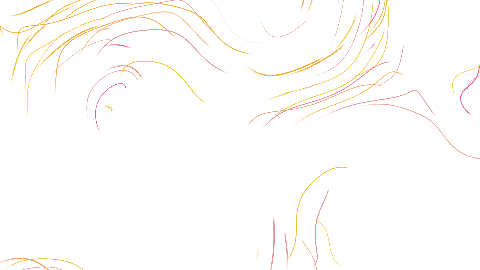
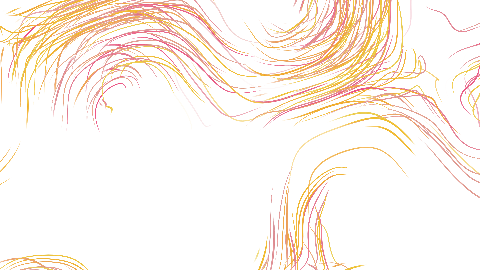
Fill the frame with Fractals, flatten Living Ink and densify Currents
Fractals: Zoom flight flies continuously into Kaleidoscope and Julia
patterns (two copies one zoom step apart, so the loop closes exactly);
Fly in takes the Mandelbox camera inside the box and turns it once per
loop. All fractal presets now fill the frame. Julia presets use
analogous palettes so fine filigree no longer averages to grey.

Living Ink: loop ink travels one pattern period per loop in staggered
pulses. Evolving ink gains Colour by age; Ink Estuary is flat colour
with outlines and stays within about 30-65% coverage instead of
flooding the frame. All ink looks start in flat colour.

Velvet Currents: transported strands go up to 480 fibre density (16k
strands) and taper toward both ends. Silk River and Copper Confluence
are dense; Copper Confluence leaves trails behind its strands. The comb
Vortex Filaments and the sparse Gathering Light are removed (81 presets).

The full instrument check now passes: evolving-only and dependent
controls are tested in the state where they act, and only visible
controls are stressed.

diff --git a/src/core/project.ts b/src/core/project.ts
@@ -108,6 +108,8 @@ const DEFINITIONS: Record<LayerKind, ParameterDefinition[]> = {
     parameter('cameraYaw', 'Orbit', -Math.PI, Math.PI, 0.01, 0, 'Camera'),
     parameter('cameraPitch', 'Elevation', -1.1, 1.1, 0.01, 0.15, 'Camera'),
     parameter('zoom', 'Framing', 0.5, 2, 0.01, 1, 'Camera'),
+    { ...parameter('zoomFlight', 'Zoom flight', 0, 1, 0.01, 0, 'Motion'), description: 'Flies continuously into the pattern; each loop zooms one step deeper and fades into the next. 0 is off.' },
+    { ...parameter('approach', 'Fly in', 0, 1, 0.01, 0, 'Camera'), description: 'Moves the camera inside the Mandelbox toward its folded core. 0 frames the whole box from outside.' },
     parameter('quality', 'Render quality', 0, 2, 1, 2, 'Material'),
     parameter('density', 'Color density', 0.25, 3, 0.01, 1, 'Material'),
     parameter('juliaReal', 'Julia real', -1.2, 0.4, 0.00001, -0.74543, 'Shape'),
@@ -224,7 +226,7 @@ export function parameterDefinitions(kind: LayerKind): ParameterDefinition[] {
   return DEFINITIONS[kind].map((definition) => ({ ...definition }));
 }
 
-const FRACTAL_ADDED_FIELDS = ['variant', 'quality', 'density', 'juliaReal', 'juliaImag', 'trap', 'boxScale', 'boxRadius', 'radial', 'roughness', 'lightAngle', 'exposure', 'lineWidth'];
+const FRACTAL_ADDED_FIELDS = ['zoomFlight', 'approach', 'variant', 'quality', 'density', 'juliaReal', 'juliaImag', 'trap', 'boxScale', 'boxRadius', 'radial', 'roughness', 'lightAngle', 'exposure', 'lineWidth'];
 const GRADING_FIELDS = ['saturation', 'hue', 'exposure'];
 const ADDED_FIELDS: Partial<Record<LayerKind, string[]>> = {
   surface: [...TIMING_KEYS,'anisotropy','sheenAngle','iridescence', 'roundness', 'relief', 'variant', 'density', 'stretch', 'turbulence', 'centerX', 'centerY', 'lightAngle', 'roughness', ...GRADING_FIELDS],
@@ -246,11 +248,11 @@ export function visibleParameterDefinitions(layer: Layer): ParameterDefinition[]
     return definitions.filter(d => keys.has(d.key)||FINISH_KEYS.includes(d.key));
   }
   if(layer.kind==='currents'&&layer.params.flowMode===1){
-    const keys=new Set(['flowMode','scale','motion','cycles','backgroundOpacity','flowDirection','travel','eddyScale','phrase','surfaceHole','fibres','curl','trailLength','width','depth','flowDetail','phaseOffset','anisotropy','saturation','hue','exposure',...FINISH_KEYS]);
+    const keys=new Set(['flowMode','scale','motion','cycles','backgroundOpacity','flowDirection','travel','eddyScale','phrase','surfaceHole','fibres','taper','curl','trailLength','width','depth','flowDetail','phaseOffset','anisotropy','saturation','hue','exposure',...FINISH_KEYS]);
     return definitions.filter(d=>keys.has(d.key));
   }
   if(layer.kind==='livingink'&&layer.params.inkMode===2){
-    const keys=new Set(['inkMode','simulationQuality','loopReturn','pigmentCarry','scale','motion','backgroundOpacity','flowDirection','travel','eddyScale','surfaceHole','pattern','branching','seedCoverage','development','relief','pigment','edgeInk','edgeSoftness','lightAngle','lightHeight','fillLight','roughness','anisotropy','sheenAngle','clearcoat','saturation','hue','exposure',...FINISH_KEYS]);
+    const keys=new Set(['ageColour','inkMode','simulationQuality','loopReturn','pigmentCarry','scale','motion','backgroundOpacity','flowDirection','travel','eddyScale','surfaceHole','pattern','branching','seedCoverage','development','relief','pigment','edgeInk','edgeSoftness','lightAngle','lightHeight','fillLight','roughness','anisotropy','sheenAngle','clearcoat','saturation','hue','exposure',...FINISH_KEYS]);
     return definitions.filter(d=>keys.has(d.key)).map(d=>d.key==='scale'?{...d,preparation:true}:d);
   }
   if(layer.kind==='relief'&&layer.params.reliefMode===1){
@@ -262,7 +264,7 @@ export function visibleParameterDefinitions(layer: Layer): ParameterDefinition[]
   const familySpecific: Record<string, number[]> = {
     juliaReal: [1], juliaImag: [1], trap: [1],
     boxScale: [2], boxRadius: [2], radial: [2], roughness: [2], lightAngle: [2],
-    lineWidth: [0, 1],
+    lineWidth: [0, 1], zoomFlight: [0, 1], approach: [2],
   };
   return definitions.filter((definition) => {
     if (definition.key === 'colorSteps') return layer.params.colorMode === 2;
@@ -309,17 +311,17 @@ export const PRESETS: Preset[] = [
   preset('chrome-dahlia', 'Chrome Dahlia', 'A tightly gathered dahlia with electric highlights and fine folds.', 'sculpture', ELECTRIC, { form: 1, fold: 0.7, ridges: 0.7, opening: 0.3, lobes: 11, thickness: 0.3, curl: 0.8, twist: -0.6, stretch: 0.95, cameraPitch: 0.2, roughness: 0.22, iridescence: 0.5, metallic: 0.65, clearcoat: 0.9, lightAngle: -0.45, shadowStrength: 0.45, shadowSoftness: 0.6 }),
   preset('aurora-ribbon', 'Aurora Ribbon', 'A broad asymmetric ribbon in lime and violet light.', 'sculpture', LIME_VIOLET, { form: 2, fold: 0.9, ridges: 0.8, opening: 0.1, twist: -1, lobes: 5, thickness: 0.7, curl: 0.9, asymmetry: 0.35, stretch: 0.75, foldFrequency: 1.4, cameraPitch: 0.6, cameraYaw: 0.4, roughness: 0.24, iridescence: 1, filmScale: 1.45, metallic: 0.45, clearcoat: 0.9, lightAngle: -0.8, saturation: 1.25, shadowStrength: 0.45, shadowSoftness: 0.6 }),
   preset('liquid-trefoil', 'Liquid Trefoil', 'A smooth looping knot in cyan, magenta and yellow.', 'sculpture', POP_PORTAL, { form: 3, fold: 0.2, ridges: 0.3, opening: 0.55, twist: 0.4, thickness: 0.65, cameraPitch: 0.3, roughness: 0.23, iridescence: 0.62, metallic: 0.45, clearcoat: 0.9, lightAngle: 0.35, shadowStrength: 0.45, shadowSoftness: 0.6 }),
-  preset('prismatic-fold', 'Prismatic Fold', 'Luminous folded geometry arranged into a shifting neon kaleidoscope.', 'fractal', FRACTAL_PALETTE, { style: 0 }),
-  preset('velvet-petals', 'Hot Petals', 'Overlapping petals in hot pink, orange and yellow.', 'fractal', HOT_SIGNAL, { style: 0, variant: 1, scale: 1.8, detail: 0.48, fold: 0.64, symmetry: 8, twist: -0.12, morph: 0.1, travel: 0.18, relief: 0.52, glow: 0.25, density: 0.8, lineWidth: 1.15 }),
-  preset('luminous-weave', 'Luminous Weave', 'Fine interlocking ribbons in electric cyan, blue and violet.', 'fractal', ELECTRIC, { style: 0, variant: 2, scale: 2.2, detail: 0.7, fold: 0.4, symmetry: 6, twist: 0.34, morph: 0.1, travel: 0.3, density: 1.2, lineWidth: 0.8, relief: 0.58, glow: 0.18 }),
-  preset('velvet-julia', 'Lime Julia', 'Intricate Julia filigree in lime and violet.', 'fractal', LIME_VIOLET, { style: 1, variant: 0, scale: 1.55, detail: 0.7, fold: 0.42, twist: -0.16, morph: 0.07, travel: 0.08, offset: 0.32, relief: 0.52, glow: 0.16, contrast: 0.5, cameraPitch: 0.12, juliaReal: -0.74543, juliaImag: 0.11301, density: 0.9, trap: 0.55 }),
-  preset('coral-mandala', 'Coral Mandala', 'Radial Julia branches gathered into an amber, scarlet and magenta mandala.', 'fractal', SOLAR, { style: 1, variant: 1, scale: 1.65, detail: 0.75, fold: 0.45, symmetry: 8, twist: 0.08, morph: 0.08, travel: 0.1, offset: 0.12, relief: 0.42, glow: 0.14, contrast: 0.52, juliaReal: -0.4, juliaImag: 0.6, density: 0.75, trap: 0.62, lineWidth: 1.1, exposure: 1.25 }),
-  preset('spiral-garden', 'Spiral Garden', 'Curling Julia tendrils in cyan, magenta and yellow.', 'fractal', POP_PORTAL, { style: 1, variant: 2, scale: 1.75, detail: 0.8, fold: 0.55, twist: 0.16, morph: 0.06, travel: 0.08, offset: 0.2, relief: 0.5, glow: 0.12, contrast: 0.55, juliaReal: -0.70176, juliaImag: -0.3842, density: 1.15, trap: 0.48, lineWidth: 0.9, exposure: 1.3 }),
-  preset('abyssal-cathedral', 'Abyssal Cathedral', 'Folded architecture in cyan light with yellow edges.', 'fractal', CYAN_YELLOW, { style: 2, variant: 0, scale: 1.9, detail: 0.42, fold: 0, twist: 0.08, morph: 0.08, travel: 0.18, offset: 0.02, relief: 0.98, glow: 0.06, contrast: 0.5, cameraYaw: 0.65, cameraPitch: 0.35, zoom: 0.72, boxScale: 2.2, boxRadius: 0.35, roughness: 0.42, density: 0.55, exposure: 1.15, lightAngle: -0.7 }),
-  preset('ivory-vault', 'Candy Vault', 'Smooth sphere folds in candy pink, cyan and yellow.', 'fractal', CANDY, { style: 2, variant: 1, scale: 1.85, detail: 0.32, fold: 0.12, twist: -0.08, morph: 0.06, travel: 0.08, relief: 0.96, glow: 0.04, contrast: 0.5, cameraYaw: 0.55, cameraPitch: 0.32, zoom: 0.85, boxScale: 1.85, boxRadius: 0.4, roughness: 0.55, density: 0.8, lightAngle: -0.45, exposure: 1.15 }),
-  preset('chromatic-lattice', 'Chromatic Lattice', 'Open recursive lattice with crisp neon edges.', 'fractal', NEON_STRATA, { style: 2, variant: 2, scale: 2, detail: 0.42, fold: 0, twist: 0.08, morph: 0.08, travel: 0.08, relief: 0.98, glow: 0.05, contrast: 0.5, cameraYaw: -0.35, cameraPitch: 0.3, zoom: 0.9, boxScale: 2.2, boxRadius: 0.35, roughness: 0.32, density: 0.8, lightAngle: -0.8, exposure: 1.15 }),
-  preset('ink-lace', 'Ink Lace', 'Fine recursive lace in cyan and yellow on black.', 'fractal', CYAN_YELLOW, { style: 0, variant: 0, colorMode: 1, colorMix: 0.8, scale: 1.9, detail: 0.65, symmetry: 8, fold: 0.5, lineWidth: 0.85, relief: 0.5, glow: 0.12, contrast: 0.48, density: 0.8 }),
-  preset('ember-julia', 'Ember Julia', 'Julia filigree mapped into crisp amber, scarlet and magenta contour bands.', 'fractal', SOLAR, { style: 1, variant: 0, colorMode: 2, colorSteps: 8, colorMix: 0.8, scale: 1.55, detail: 0.7, fold: 0.42, twist: -0.16, morph: 0.07, travel: 0.08, offset: 0.12, relief: 0.52, glow: 0.16, contrast: 0.5, cameraPitch: 0.12, juliaReal: -0.74543, juliaImag: 0.11301, density: 0.9, trap: 0.55 }),
+  preset('prismatic-fold', 'Prismatic Fold', 'Luminous folded geometry arranged into a shifting neon kaleidoscope.', 'fractal', FRACTAL_PALETTE, { style: 0, zoom: 1.8, zoomFlight: 0.5 }),
+  preset('velvet-petals', 'Hot Petals', 'Overlapping petals in hot pink, orange and yellow.', 'fractal', HOT_SIGNAL, { style: 0, variant: 1, scale: 1.8, detail: 0.48, fold: 0.64, symmetry: 8, twist: -0.12, morph: 0.1, travel: 0.18, relief: 0.52, glow: 0.25, density: 0.8, lineWidth: 1.15, zoom: 1.8, zoomFlight: 0.5 }),
+  preset('luminous-weave', 'Luminous Weave', 'Fine interlocking ribbons in electric cyan, blue and violet.', 'fractal', ELECTRIC, { style: 0, variant: 2, scale: 2.2, detail: 0.7, fold: 0.4, symmetry: 6, twist: 0.34, morph: 0.1, travel: 0.3, density: 1.2, lineWidth: 0.8, relief: 0.58, glow: 0.18, zoom: 1.6, zoomFlight: 0.4 }),
+  preset('velvet-julia', 'Lime Julia', 'Intricate Julia filigree in lime, green and cyan.', 'fractal', ['#c6ff00', '#5cff5c', '#00ff9c', '#00e5ff', '#9cff2e', '#04120a'], { style: 1, variant: 0, scale: 1.55, detail: 0.7, fold: 0.42, twist: -0.16, morph: 0.07, travel: 0.08, offset: 0.32, relief: 0.52, glow: 0.16, contrast: 0.5, cameraPitch: 0.12, juliaReal: -0.74543, juliaImag: 0.11301, density: 0.9, trap: 0.55, zoom: 1.6, zoomFlight: 0.4 }),
+  preset('coral-mandala', 'Coral Mandala', 'Radial Julia branches gathered into an amber, scarlet and magenta mandala.', 'fractal', SOLAR, { style: 1, variant: 1, scale: 1.65, detail: 0.75, fold: 0.45, symmetry: 8, twist: 0.08, morph: 0.08, travel: 0.1, offset: 0.12, relief: 0.42, glow: 0.14, contrast: 0.52, juliaReal: -0.4, juliaImag: 0.6, density: 0.75, trap: 0.62, lineWidth: 1.1, exposure: 1.25, zoom: 1.8, zoomFlight: 0.5 }),
+  preset('spiral-garden', 'Spiral Garden', 'Curling Julia tendrils in hot pink, orange and yellow.', 'fractal', ['#ff2e93', '#ff5a1f', '#ffcc00', '#ff4fd8', '#ff8a00', '#14020c'], { style: 1, variant: 2, scale: 1.75, detail: 0.8, fold: 0.55, twist: 0.16, morph: 0.06, travel: 0.08, offset: 0.2, relief: 0.5, glow: 0.12, contrast: 0.55, juliaReal: -0.70176, juliaImag: -0.3842, density: 1.15, trap: 0.48, lineWidth: 0.9, exposure: 1.3, zoom: 1.6, zoomFlight: 0.4 }),
+  preset('abyssal-cathedral', 'Abyssal Cathedral', 'Folded architecture in cyan light with yellow edges.', 'fractal', CYAN_YELLOW, { style: 2, variant: 0, scale: 1.9, detail: 0.42, fold: 0, twist: 0.08, morph: 0.08, travel: 0.18, offset: 0.02, relief: 0.98, glow: 0.06, contrast: 0.5, cameraYaw: 0.65, cameraPitch: 0.35, boxScale: 2.2, boxRadius: 0.35, roughness: 0.42, density: 0.55, exposure: 1.15, lightAngle: -0.7, approach: 0.7 }),
+  preset('ivory-vault', 'Candy Vault', 'Smooth sphere folds in candy pink, cyan and yellow.', 'fractal', CANDY, { style: 2, variant: 1, scale: 1.85, detail: 0.32, fold: 0.12, twist: -0.08, morph: 0.06, travel: 0.08, relief: 0.96, glow: 0.04, contrast: 0.5, cameraYaw: 0.55, cameraPitch: 0.32, boxScale: 1.85, boxRadius: 0.4, roughness: 0.55, density: 0.8, lightAngle: -0.45, exposure: 1.15, approach: 0.7 }),
+  preset('chromatic-lattice', 'Chromatic Lattice', 'Open recursive lattice with crisp neon edges.', 'fractal', NEON_STRATA, { style: 2, variant: 2, scale: 2, detail: 0.42, fold: 0, twist: 0.08, morph: 0.08, travel: 0.08, relief: 0.98, glow: 0.05, contrast: 0.5, cameraYaw: -0.35, cameraPitch: 0.3, boxScale: 2.2, boxRadius: 0.35, roughness: 0.32, density: 0.8, lightAngle: -0.8, exposure: 1.15, approach: 0.6 }),
+  preset('ink-lace', 'Ink Lace', 'Fine recursive lace in cyan and yellow on black.', 'fractal', CYAN_YELLOW, { style: 0, variant: 0, colorMode: 1, colorMix: 0.8, scale: 1.9, detail: 0.65, symmetry: 8, fold: 0.5, lineWidth: 0.85, relief: 0.5, glow: 0.12, contrast: 0.48, density: 0.8, zoom: 1.8, zoomFlight: 0.5 }),
+  preset('ember-julia', 'Ember Julia', 'Julia filigree mapped into crisp amber, scarlet and magenta contour bands.', 'fractal', SOLAR, { style: 1, variant: 0, colorMode: 2, colorSteps: 8, colorMix: 0.8, scale: 1.55, detail: 0.7, fold: 0.42, twist: -0.16, morph: 0.07, travel: 0.08, offset: 0.12, relief: 0.52, glow: 0.16, contrast: 0.5, cameraPitch: 0.12, juliaReal: -0.74543, juliaImag: 0.11301, density: 0.9, trap: 0.55, zoom: 1.6, zoomFlight: 0.4 }),
 ];
 
 

diff --git a/src/core/instruments.ts b/src/core/instruments.ts
@@ -9,7 +9,7 @@ const lighting=()=>[p('lightAngle','Light angle',-Math.PI,Math.PI,.01,-.7,'Mater
 const common=()=>[p('scale','Pattern scale',.3,8,.01,2.4),p('rotation','Direction',-Math.PI,Math.PI,.01,0),p('motion','Motion amount',0,1,.01,.35,'Motion'),p('cycles','Cycles per loop',1,8,1,1,'Motion'),p('backgroundOpacity','Field background',0,1,.01,1,'Material'),p('saturation','Saturation',0,2,.01,1,'Material'),p('hue','Hue shift',-Math.PI,Math.PI,.01,0,'Material'),p('exposure','Exposure',.25,2,.01,1,'Material')];
 export const INSTRUMENT_PARAMETERS:Record<InstrumentKind,ParameterDefinition[]>={
  livingink:[...common(),p('pattern','Growth family',0,3,1,0),{...p('branching','Branching',0,1,.01,.5),preparation:true},p('relief','Pigment relief',0,1,.01,.7,'Material'),p('pigment','Pigment amount',.15,.85,.01,.48,'Material'),p('flow','Flow distortion',0,1,.01,.25),...lighting()],
- currents:[...common(),p('fibres','Fibre density',12,96,1,42),p('curl','Current curl',0,1,.01,.6),p('coherence','Flow coherence',0,1,.01,.75),p('trailLength','Trail length',.08,1,.01,.65,'Motion'),p('width','Fibre width',.08,.8,.01,.3,'Material'),p('depth','Depth spread',0,1,.01,.45),...lighting()],
+ currents:[...common(),p('fibres','Fibre density',12,480,1,42),p('curl','Current curl',0,1,.01,.6),p('coherence','Flow coherence',0,1,.01,.75),p('trailLength','Trail length',.08,1,.01,.65,'Motion'),p('width','Fibre width',.08,.8,.01,.3,'Material'),p('depth','Depth spread',0,1,.01,.45),...lighting()],
  relief:[...common(),p('columns','Piece density',3,20,1,8),p('opening','Hinge opening',0,1,.01,.65),p('depth','Relief depth',.05,1,.01,.5),p('bevel','Piece bevel',.02,.35,.01,.12),p('waveCount','Travelling bands',1,6,1,2,'Motion'),p('axis','Hinge axis',0,2,1,0),p('shadow','Shadow strength',0,1,.01,.6,'Material'),...lighting()],
  resonance:[...common(),p('modeA','Horizontal mode',1,12,1,3),p('modeB','Vertical mode',1,12,1,5),p('modalBlend','Modal blend',0,1,.01,.35),p('bandWidth','Nodal width',.015,.3,.005,.09,'Material'),p('grains','Sand texture',0,1,.01,.65,'Material'),p('relief','Membrane relief',0,1,.01,.25,'Material'),...lighting()],
 };
@@ -23,7 +23,7 @@ const directed=[
 ];
 const material=[a('lightHeight','Light elevation',.2,2,.01,1,'Material'),a('fillLight','Fill light',0,1,.01,.26,'Material'),a('anisotropy','Directional sheen',0,1,.01,0,'Material'),a('sheenAngle','Sheen direction',-Math.PI,Math.PI,.01,0,'Material','Direction of the stretched highlight when Directional sheen is above zero.'),a('clearcoat','Clear coat',0,1,.01,0,'Material')];
 const specific:Record<InstrumentKind,ParameterDefinition[]>={
- livingink:[p('pigmentCarry','Pigment carry',0,1,.01,.6,'Material'),a('edgeSoftness','Pigment softness',0,1,.01,0,'Material'),a('edgeInk','Edge pigment',0,1,.01,.24,'Material'),{...a('seedCoverage','Seed coverage',.3,.85,.01,.62,'Shape','Re-prepares the chemical texture; does not change during playback.'),preparation:true},{...a('development','Development',.65,1.4,.01,1,'Shape','Duration of deterministic chemical preparation, not playback speed.'),preparation:true}],
+ livingink:[...TIMING_PARAMETERS.map(d=>({...d})),{...p('ageColour','Colour by age',0,1,.01,0,'Material'),description:'Evolving only: colours ink by how long it has been there, so new growth stands out from old. 0 keeps one colour.'},p('pigmentCarry','Pigment carry',0,1,.01,.6,'Material'),a('edgeSoftness','Pigment softness',0,1,.01,0,'Material'),a('edgeInk','Edge pigment',0,1,.01,.24,'Material'),{...a('seedCoverage','Seed coverage',.3,.85,.01,.62,'Shape','Re-prepares the chemical texture; does not change during playback.'),preparation:true},{...a('development','Development',.65,1.4,.01,1,'Shape','Duration of deterministic chemical preparation, not playback speed.'),preparation:true}],
  currents:[a('vortex','Vortex curl',-1,1,.01,0),a('braid','Braided flow',0,1,.01,0),a('taper','Fibre taper',0,1,.01,0,'Material'),a('flowDetail','Fine eddies',0,1,.01,0)],
  relief:[...TIMING_PARAMETERS.map(d=>({...d})),{...p('panelMix','Panel sizes',0,1,.01,0),description:'Mixes large, medium and small panels instead of one uniform grid. Solid relief only.'},a('gap','Joint spacing',.01,.24,.005,.08),a('stagger','Row stagger',0,1,.01,0),a('hingeBias','Hinge position',-1,1,.01,0),a('roundness','Plate rounding',0,1,.01,0),a('phaseSpread','Opening variation',0,1,.01,0,'Motion')],
  resonance:[a('radialMix','Circular modes',0,1,.01,0),a('harmonic','Harmonic detail',0,1,.01,0),a('grainSize','Grain density',40,260,1,130,'Material'),a('nodalSoftness','Nodal softness',0,1,.01,0,'Material')],
@@ -46,22 +46,20 @@ export const INSTRUMENTS:InstrumentInfo[]=[
 export function isInstrument(kind:string):kind is InstrumentKind{return (INSTRUMENT_KINDS as readonly string[]).includes(kind);}
 
 const explorations:Partial<Record<InstrumentKind,InstrumentInfo['looks'][number]>>={
- currents:{id:'vortex-filaments',name:'Vortex Filaments',params:{vortex:.6,braid:.35,stretch:.8,coherence:.8,curl:.8,anisotropy:.8,flowDetail:.3,width:.55,scale:1.4,fibres:18,fillLight:.4}},
  resonance:{id:'orbital-cymatics',name:'Orbital Cymatics',palette:SOLAR,params:{radialMix:.8,harmonic:.3,grainSize:180,nodalSoftness:.12,warp:.05,scale:2,bandWidth:.13}},
 };
 for(const info of INSTRUMENTS){const look=explorations[info.kind];if(look)info.looks.push(look);}
 
 // Authored behaviour studies within the existing instruments. References and
 // original design decisions: docs/projection-media-direction-2026-11-10.md.
-export const PROJECTION_LOOK_IDS=['silk-river','copper-confluence','gathering-light','ink-estuary','tidal-pigment','breathing-facade','folding-copper','quiet-monument'];
+export const PROJECTION_LOOK_IDS=['silk-river','copper-confluence','ink-estuary','tidal-pigment','breathing-facade','folding-copper','quiet-monument'];
 const studies:Partial<Record<InstrumentKind,InstrumentInfo['looks']>>={
  currents:[
-  {id:'silk-river',name:'Silk River',params:{flowMode:1,organic:.7,scale:1.4,fibres:72,width:.5,trailLength:.85,curl:.95,travel:.4,eddyScale:2,flowDetail:.5,surfaceHole:.32,motion:1,anisotropy:.8,backgroundOpacity:0,depth:.65}},
-  {id:'copper-confluence',name:'Copper Confluence',palette:warm,params:{flowMode:1,organic:.8,scale:1.7,fibres:84,width:.5,trailLength:.95,curl:1,travel:.2,eddyScale:2.8,flowDirection:.35,motion:1,phrase:2,backgroundOpacity:0,depth:.8}},
-  {id:'gathering-light',name:'Gathering Light',palette:pearl,params:{flowMode:1,scale:1.6,fibres:60,width:.3,trailLength:.65,curl:.8,travel:.65,eddyScale:1.2,flowDirection:-.4,motion:1,phrase:1,backgroundOpacity:0}},
+  {id:'silk-river',name:'Silk River',params:{flowMode:1,organic:.7,scale:1.4,fibres:360,taper:.7,width:.5,trailLength:.85,curl:.95,travel:.4,eddyScale:2,flowDetail:.5,surfaceHole:.32,motion:1,anisotropy:.8,backgroundOpacity:0,depth:.65}},
+  {id:'copper-confluence',name:'Copper Confluence',palette:warm,params:{flowMode:1,organic:.8,scale:1.7,fibres:420,taper:.6,echo:.82,echoZoom:1,echoBlend:1,width:.5,trailLength:.95,curl:1,travel:.2,eddyScale:2.8,flowDirection:.35,motion:1,phrase:2,backgroundOpacity:0,depth:.8}},
  ],
  livingink:[
-  {id:'ink-estuary',name:'Ink Estuary · Evolving',palette:cool,params:{inkMode:2,scale:2.2,travel:.55,pattern:3,motion:1,relief:.18,seedCoverage:.5,development:1.2,pigment:.6,edgeInk:.6,backgroundOpacity:0}},
+  {id:'ink-estuary',name:'Ink Estuary · Evolving',palette:cool,params:{...FLAT_FINISH,toonBands:4,pigmentCarry:.1,ageColour:1,edgeSoftness:0,inkMode:2,scale:2.2,travel:.55,pattern:3,motion:1,relief:.18,seedCoverage:.5,development:1.2,pigment:.6,edgeInk:.6,backgroundOpacity:0}},
   {id:'tidal-pigment',name:'Tidal Pigment · Loop',palette:SOLAR,params:{inkMode:1,organic:.55,scale:1.8,pattern:1,motion:1,flow:.5,relief:.35,edgeInk:.5,flowDirection:.35,backgroundOpacity:0}},
  ],
  relief:[
@@ -82,5 +80,13 @@ const RELIEF_TIMING:Record<string,Record<string,number>>={
  'quiet-monument':{panelMix:.9,delayShape:2,delaySpread:.4,pause:.5},
 };
 for(const look of INSTRUMENTS.find(i=>i.kind==='relief')!.looks)Object.assign(look.params,RELIEF_TIMING[look.id]??{});
+// Loop ink travels one pattern period per loop in staggered pulses instead of breathing in place.
+const INK_TRAVEL:Record<string,Record<string,number>>={
+ 'ivory-coral':{inkMode:1,motion:1,flowDirection:.3,delayShape:0,delaySpread:.2,pause:.15},
+ 'cobalt-fingerprints':{inkMode:1,motion:1,flowDirection:-.5,delayShape:2,delaySpread:.2,pause:.15},
+ 'ember-cells':{inkMode:1,motion:1,flowDirection:1.2,delayShape:0,delaySpread:.25,pause:.2},
+ 'tidal-pigment':{delayShape:2,delaySpread:.2,pause:.15},
+};
+for(const look of INSTRUMENTS.find(i=>i.kind==='livingink')!.looks)look.params={...FLAT_FINISH,...look.params,...INK_TRAVEL[look.id]};
 const RELIEF_PALETTES:Record<string,string[]>={'porcelain-shutters':CANDY,'basalt-scales':CYAN_YELLOW};
 for(const look of INSTRUMENTS.find(i=>i.kind==='relief')!.looks)if(RELIEF_PALETTES[look.id])look.palette=RELIEF_PALETTES[look.id];

diff --git a/src/rendering/CurrentRenderer.ts b/src/rendering/CurrentRenderer.ts
@@ -5,10 +5,18 @@ import { flowHash, flowStep, FLOW_STEPS, phraseTime, smooth, TAU, wrapUnit, type
 import { sampleSurface } from '../core/surface-layout';
 import { surfaceFieldGLSL, type PreparedSurface } from './surface-fields';
 
-const MAX_STRANDS = 4096, MAX_VERTICES = MAX_STRANDS * FLOW_STEPS * 6;
+// Dense currents draw up to 16k strands; only the visible trail of each is
+// tessellated, so the vertex budget is set by trails rather than full paths.
+const MAX_STRANDS = 16384, MAX_VERTICES = 3_600_000;
 /** Finite-age trajectories reconstructed from their birth, not display history.
  * See the motion/lifecycle design and primary sources in docs/projection-media-direction-2026-11-10.md.
  */
+/** Width multiplier along a trail; amount 0 keeps a constant width. */
+function taper(at:number,begin:number,span:number,amount:number):number{
+  if(!(amount>0))return 1;
+  const u=Math.max(0,Math.min(1,(at-begin)/span));
+  return 1-amount+amount*1.35*Math.sin(Math.PI*u);
+}
 export class CurrentRenderer {
   private pathKey='';
   private paths=new Map<string,Float64Array>();
@@ -60,7 +68,7 @@ export class CurrentRenderer {
       if(surface&&surface.role!==1){const f=sampleSurface(surface.grid,x/(aspect*scale)+.5,y/scale+.5);if(surface.role===2?f.coverage<.5:Math.abs(f.distance)>.03)continue;}
       const key=`${ix}:${iy}:${j}`;
       let path=this.paths.get(key);
-      if(!path){path=new Float64Array((FLOW_STEPS+1)*2);path.set([x,y]);let X=x,Y=y;for(let i=1;i<=FLOW_STEPS;i++){[X,Y]=flowStep(X,Y,-identity+(i-1)/FLOW_STEPS,1/FLOW_STEPS,settings);path[i*2]=X;path[i*2+1]=Y;}this.paths.set(key,path);while(this.paths.size>8192)this.paths.delete(this.paths.keys().next().value!);}
+      if(!path){path=new Float64Array((FLOW_STEPS+1)*2);path.set([x,y]);let X=x,Y=y;for(let i=1;i<=FLOW_STEPS;i++){[X,Y]=flowStep(X,Y,-identity+(i-1)/FLOW_STEPS,1/FLOW_STEPS,settings);path[i*2]=X;path[i*2+1]=Y;}this.paths.set(key,path);while(this.paths.size>MAX_STRANDS*1.25)this.paths.delete(this.paths.keys().next().value!);}
       const tail=Math.max(.04,p.trailLength*.68),begin=Math.max(0,age-tail);
       const life=smooth(age/.08)*smooth((1-age)/.12);
       const tone=flowHash(ix+41,iy-31,seed),radius=(.0015+p.width*.005)*(1+p.depth*(identity-.5));
@@ -71,11 +79,14 @@ export class CurrentRenderer {
         const next=Math.min(at,age);
         if(at>age&&previous){const f=(age-previousAge)*FLOW_STEPS;x=previous[0]+(x-previous[0])*f;y=previous[1]+(y-previous[1])*f;}
         if(previous&&next>begin&&next>previousAge){
+          if(vertices+6>MAX_VERTICES)break outer;
+          // Taper: a strand is widest along its middle and thins to a point at both ends.
+          const span=Math.max(1e-6,age-begin),wa=taper(previousAge,begin,span,p.taper),wb=taper(next,begin,span,p.taper);
           const dx=x-previous[0],dy=y-previous[1],length=Math.max(1e-7,Math.hypot(dx,dy)),nx=-dy/length*radius,ny=dx/length*radius;
           const a=life*smooth((previousAge-begin)/(.025+tail*.12))*smooth((age-previousAge)/.04),b=life*smooth((next-begin)/(.025+tail*.12))*smooth((age-next)/.04);
           
-          vertex(previous[0]-nx,previous[1]-ny,a,tone,-1);vertex(previous[0]+nx,previous[1]+ny,a,tone,1);vertex(x+nx,y+ny,b,tone,1);
-          vertex(previous[0]-nx,previous[1]-ny,a,tone,-1);vertex(x+nx,y+ny,b,tone,1);vertex(x-nx,y-ny,b,tone,-1);
+          vertex(previous[0]-nx*wa,previous[1]-ny*wa,a,tone,-1);vertex(previous[0]+nx*wa,previous[1]+ny*wa,a,tone,1);vertex(x+nx*wb,y+ny*wb,b,tone,1);
+          vertex(previous[0]-nx*wa,previous[1]-ny*wa,a,tone,-1);vertex(x+nx*wb,y+ny*wb,b,tone,1);vertex(x-nx*wb,y-ny*wb,b,tone,-1);
         }
         previous=[x,y];previousAge=next;if(at>=age)break;
       }

diff --git a/src/rendering/fractal.ts b/src/rendering/fractal.ts
@@ -14,6 +14,9 @@ uniform float uAspect,uPhase,uSeed,uStyle,uScale,uDetail,uFold,uSymmetry,uTwist;
 uniform float uMorph,uTravel,uOffset,uRelief,uGlow,uContrast,uCameraYaw,uCameraPitch,uZoom;
 uniform float uVariant,uQuality,uDensity,uJuliaReal,uJuliaImag,uTrap,uLineWidth;
 uniform float uBoxScale,uBoxRadius,uRadial,uRoughness,uLightAngle,uExposure;
+uniform float uZoomFlight,uApproach;
+// Extra magnification for Zoom flight; 1 leaves the plane unchanged.
+float gZoom=1.;
 const float TAU=6.28318530718;
 mat2 turn(float a) { float c=cos(a),s=sin(a);return mat2(c,-s,s,c); }
 vec3 meanPalette() {return (uPalette[0]+uPalette[1]+uPalette[2]+uPalette[3]+uPalette[4]+uPalette[5])/6.;}
@@ -35,7 +38,7 @@ vec2 planeAt(vec2 offset) {
   float denominator=1.+p.y*.18*tan(uCameraPitch);
   p/=(denominator<0.?-1.:1.)*max(abs(denominator),.08);
   p=turn(uCameraYaw+uTravel*.12*sin(uPhase))*p;
-  p*=2.8*uScale/1.7/max(uZoom,.5);
+  p*=2.8*uScale/1.7/max(uZoom,.5)*gZoom;
   p+=uTravel*.22*vec2(sin(uPhase),cos(uPhase));
   return p;
 }
@@ -44,7 +47,7 @@ float planePixel() {
   // Analytic, conservative plane footprint. A derivative here would become
   // undefined higher-order derivatives when the material normal is evaluated.
   float tilt=.18*abs(tan(uCameraPitch));
-  float gain=2.8*uScale/1.7/max(uZoom,.5);
+  float gain=2.8*uScale/1.7/max(uZoom,.5)*gZoom;
   return uViewScale*gain*1.414214*(1.+uAspect*tilt*.5)/(uResolution.y*pow(1.-tilt*.5,2.));
 }
 vec3 glaze(vec3 color,float height,float weight) {
@@ -111,7 +114,18 @@ ${juliaFunctions}
 ${boxFunctions}
 void main() {
   vec4 pixel;
-  if(uStyle<.5)pixel=vec4(kaleidoscope(),1.);
+  if(uStyle<1.5&&uZoomFlight>0.) {
+    // Zoom flight: two copies one zoom step apart. The nearer one magnifies
+    // across the cycle while the farther one fades in to replace it, so the
+    // last frame is the first one and the loop closes exactly.
+    float f=fract(uPhase/TAU),step=1.+5.*uZoomFlight,w=f*f*(3.-2.*f);
+    gZoom=pow(step,-f);
+    vec3 nearer=uStyle<.5?kaleidoscope():juliaBloom();
+    gZoom=pow(step,1.-f);
+    vec3 farther=uStyle<.5?kaleidoscope():juliaBloom();
+    pixel=vec4(mix(nearer,farther,w),1.);
+  }
+  else if(uStyle<.5)pixel=vec4(kaleidoscope(),1.);
   else if(uStyle<1.5)pixel=vec4(juliaBloom(),1.);
   else {
     // Fixed, deterministic subpixel samples also produce associated edge alpha.

diff --git a/tests/core.test.ts b/tests/core.test.ts
@@ -378,7 +378,7 @@ test('fractal defaults and all family variants roundtrip alongside existing laye
     'style', 'scale', 'detail', 'fold', 'symmetry', 'twist', 'morph', 'travel', 'cycles',
     'offset', 'relief', 'glow', 'contrast', 'cameraYaw', 'cameraPitch', 'zoom',
     'variant', 'quality', 'density', 'juliaReal', 'juliaImag', 'trap', 'boxScale', 'boxRadius', 'radial', 'roughness', 'lightAngle', 'exposure', 'lineWidth',
-    'colorMode', 'colorSteps', 'colorMix', 'saturation', 'hue',...FINISH_KEYS,
+    'colorMode', 'colorSteps', 'colorMix', 'saturation', 'hue', 'zoomFlight', 'approach',...FINISH_KEYS,
   ].sort());
   assert.equal(layer.params.quality, 2);
   assert.equal(layer.params.morph, 0.1);
@@ -428,7 +428,7 @@ test('fractal saves reject missing original controls, invalid ranges, fractional
   }
   for (const definition of parameterDefinitions('fractal')) {
     const missing = clone(project); delete missing.layers[0].params[definition.key];
-    if ([...FRACTAL_V5_FIELDS, ...(V6_FIELDS.fractal ?? []),...FINISH_KEYS].includes(definition.key)) assert.equal(validateProject(missing).layers[0].params[definition.key], definition.default);
+    if ([...FRACTAL_V5_FIELDS, ...(V6_FIELDS.fractal ?? []),...FINISH_KEYS,'zoomFlight','approach'].includes(definition.key)) assert.equal(validateProject(missing).layers[0].params[definition.key], definition.default);
     else assert.throws(() => validateProject(missing), new RegExp(`params.${definition.key}`), 'Only additive fields may receive legacy defaults');
     for (const boundary of [definition.min, definition.max]) {
       const valid = clone(project); valid.layers[0].params[definition.key] = boundary;
@@ -681,7 +681,7 @@ test('Fractal contour controls appear only for contour coloring without deleting
 });
 
 test('the curated library covers every Surface pattern, four Sculpture forms and three Fractal colorings', () => {
-  assert.equal(PRESETS.filter(p => p.kind !== 'graphic').length, 59);
+  assert.equal(PRESETS.filter(p => p.kind !== 'graphic').length, 57);
   assert.equal(new Set(PRESETS.map(preset => preset.id)).size, PRESETS.length);
   const surfaces = PRESETS.filter(preset => preset.kind === 'surface');
   assert.equal(surfaces.length, 15);

diff --git a/src/rendering/instrument-shaders.ts b/src/rendering/instrument-shaders.ts
@@ -85,10 +85,15 @@ vec3 cells(vec2 p){vec4 s=sites(p,.6);return vec3(length(s.xy),s.z,s.w);}
 `;
 const bodies:Record<InstrumentKind,string>={
 livingink:/* glsl */`
+${timingGLSL}
 void main(){
  vec2 p=domain(),q=p+uFlow*.28*vec2(sin(p.y*1.4+orbit().x),cos(p.x*1.1+orbit().y));
  q+=orbit()*.13;vec2 uv=q*.36+.5;
- if(uInkMode>.5&&uInkMode<1.5){vec2 aligned=spin(uFlowDirection)*q;uv=aligned*.36+.5+vec2(uPhase/TAU,0.);}
+ if(uInkMode>.5&&uInkMode<1.5){vec2 aligned=spin(uFlowDirection)*q;
+  // Travel advances one whole pattern period per loop. With timing on, each
+  // region of the frame runs its own clock, so pulses of flow cross the field.
+  float clock=uDelaySpread>0.||uPause>0.?stagedTime(uPhase,delayOrder((sourceUV(vUv)-.5)*vec2(uAspect,1.),uAspect)):uPhase;
+  uv=aligned*.36+.5+vec2(clock/TAU,0.);}
  if(uInkMode>1.5)uv=(sourceUV(vUv)-.5)*vec2(uAspect,1.)*uScale/4.8+.5;
  vec4 f=textureGrad(uPatternTexture,uv,dFdx(uv),dFdy(uv));
  if(uInkMode>1.5)f.g=mix(f.g,f.b,uPigmentCarry);
@@ -98,7 +103,9 @@ void main(){
  if(uInkMode>1.5){cover=mix(cover,1.-exp(-f.b*(1.+uPigment*5.)),uPigmentCarry);float border=min(min(uv.x,uv.y),min(1.-uv.x,1.-uv.y));cover*=smoothstep(0.,.08,border);}
  float ridge=exp(-pow((h-edge)/.09,2.));
  vec3 n=fieldNormal(p,h*uRelief*.23);
- vec3 color=coat(mix(uPalette[0],uPalette[1],h*.6),n,uLightAngle,uRoughness,.12);
+ vec3 base=mix(uPalette[0],uPalette[1],h*.6);
+ if(uInkMode>1.5&&uAgeColour>0.){float age=smoothstep(.05,.85,f.b);base=mix(base,age<.5?mix(uPalette[2],uPalette[0],age*2.):mix(uPalette[0],uPalette[4],age*2.-1.),uAgeColour);}
+ vec3 color=coat(base,n,uLightAngle,uRoughness,.12);
  color=mix(color,uPalette[3],ridge*uEdgeInk);outputField(color,cover);
 }`,
 currents:/* glsl */`

diff --git a/src/rendering/fractal-box.ts b/src/rendering/fractal-box.ts
@@ -70,10 +70,13 @@ float boxShadow(vec3 p,vec3 light,float epsilon) {
 }
 vec4 traceBox(vec2 offset) {
   float size=uScale/1.7;
-  float yaw=uCameraYaw+uTravel*.25*sin(uPhase);
+  // Inside the box the camera also turns once per loop, so the space keeps changing.
+  float yaw=uCameraYaw+uTravel*.25*sin(uPhase)+(uApproach>0.?uPhase:0.);
   float pitch=uCameraPitch+uTravel*.12*cos(uPhase);
   float radius=2.*length(boxLimits())/size+.01/size;
   float framing=radius+3.6/max(uZoom,.5)-uTravel*.35*cos(uPhase);
+  // Fly in: the camera moves inside the bounding sphere toward the folded core.
+  if(uApproach>0.)framing=mix(framing,radius*(.62-.12*uApproach)-uTravel*.35*radius*.3*cos(uPhase),uApproach);
   vec3 origin=framing*vec3(sin(yaw)*cos(pitch),sin(pitch),cos(yaw)*cos(pitch));
   vec3 forward=normalize(-origin),right=normalize(cross(forward,vec3(0,1,0))),up=cross(right,forward);
   vec2 uv=(sourceUV(vUv+offset/uResolution)-.5)*vec2(uAspect,1.);

diff --git a/tests/quality.test.ts b/tests/quality.test.ts
@@ -4,9 +4,9 @@ import { PRESETS, applyPreset, createLayer, createProject, parameterDefinitions,
 const unlocked = {palette:false,structure:false,motion:false,material:false};
 const identity = ['style','variant','form','mode','colorMode','profile','fill','sweep','gateMode','substrate','quality','cycles','turns','backgroundOpacity','phaseOffset'];
 
-test('the curated library keeps 83 distinct presets on saturated palettes with a dark or light ground', () => {
-  assert.equal(PRESETS.length,83);
-  assert.equal(new Set(PRESETS.map(p=>p.id)).size,83);
+test('the curated library keeps 81 distinct presets on saturated palettes with a dark or light ground', () => {
+  assert.equal(PRESETS.length,81);
+  assert.equal(new Set(PRESETS.map(p=>p.id)).size,81);
   for (const preset of PRESETS) {
     const layer=applyPreset(createLayer(preset.kind),preset.id);
     const project={...createProject(),layers:[layer]};

diff --git a/src/rendering/fractal-julia.ts b/src/rendering/fractal-julia.ts
@@ -8,7 +8,7 @@ vec2 juliaDomainPlane(vec2 pixelOffset) {
   float denominator=1.+p.y*.18*tan(uCameraPitch);
   p/=(denominator<0.?-1.:1.)*max(abs(denominator),.08);
   p=turn(uCameraYaw+uTravel*.12*sin(uPhase))*p;
-  p*=2.8*uScale/1.7/max(uZoom,.5)*.78;
+  p*=2.8*uScale/1.7/max(uZoom,.5)*.78*gZoom;
   p+=uTravel*.18*vec2(sin(uPhase),cos(uPhase));
   return turn(uTwist*.6)*p;
 }

diff --git a/README.md b/README.md
@@ -131,9 +131,19 @@ Delays are fixed in time and the pause maps each cycle onto itself, so loops sti
 
 Kinetic Relief also has **Panel sizes**, which mixes large, medium and small panels in the solid relief instead of one uniform grid.
 
+## Fractal flight
+
+**Zoom flight** (Kaleidoscope and Julia) flies continuously into the pattern. Each loop zooms one step deeper while the next step fades in, so the last frame is the first. **Fly in** (Mandelbox) moves the camera inside the box toward its folded core and turns it once per loop. Both are 0 by default. The 2D presets now fill the frame and fly; the Mandelbox presets are viewed from inside.
+
+## Living Ink and Velvet Currents
+
+Loop ink travels one pattern period per loop. Delay spread, Delay from and Pause make that travel arrive in gentle pulses across the frame. Evolving ink has **Colour by age**, which colours new growth differently from old; Ink Estuary uses it with flat colour and keeps its ink between about 30% and 65% of the frame.
+
+Transported Velvet Currents allow up to 480 for Fibre density (up to 16,384 strands), and **Fibre taper** now thins each trail toward both ends. The comb-like Vortex Filaments and the sparse Gathering Light were removed.
+
 ## Preset library
 
-The library has 83 presets. In 0.12 it was cut from 151 to remove near-identical looks, pastel looks that do not read on a projection wall, and the 20-look signature collection (each was a recolour of another preset). Kept presets use saturated palettes on a dark ground; Kinetic Relief and Resonant Sand start in flat colour with outlines.
+The library has 81 presets. In 0.12 it was cut from 151 to remove near-identical looks, pastel looks that do not read on a projection wall, and the 20-look signature collection (each was a recolour of another preset). Kept presets use saturated palettes on a dark ground; Kinetic Relief and Resonant Sand start in flat colour with outlines.
 
 **Presets → Finishes for any layer** holds six finishes: Tunnel, Bloom Echo and Melt (feedback), and Terraces, Block Shuffle and Ring Delay (time displacement). A finish applies to the selected layer of any kind except Graphic Patterns and Ink *Evolving*, and replaces any finish already on it. **No finish** turns both off. Recursion Tunnel and Time Terraces remain as Surface presets that show a finish on a source.
 
